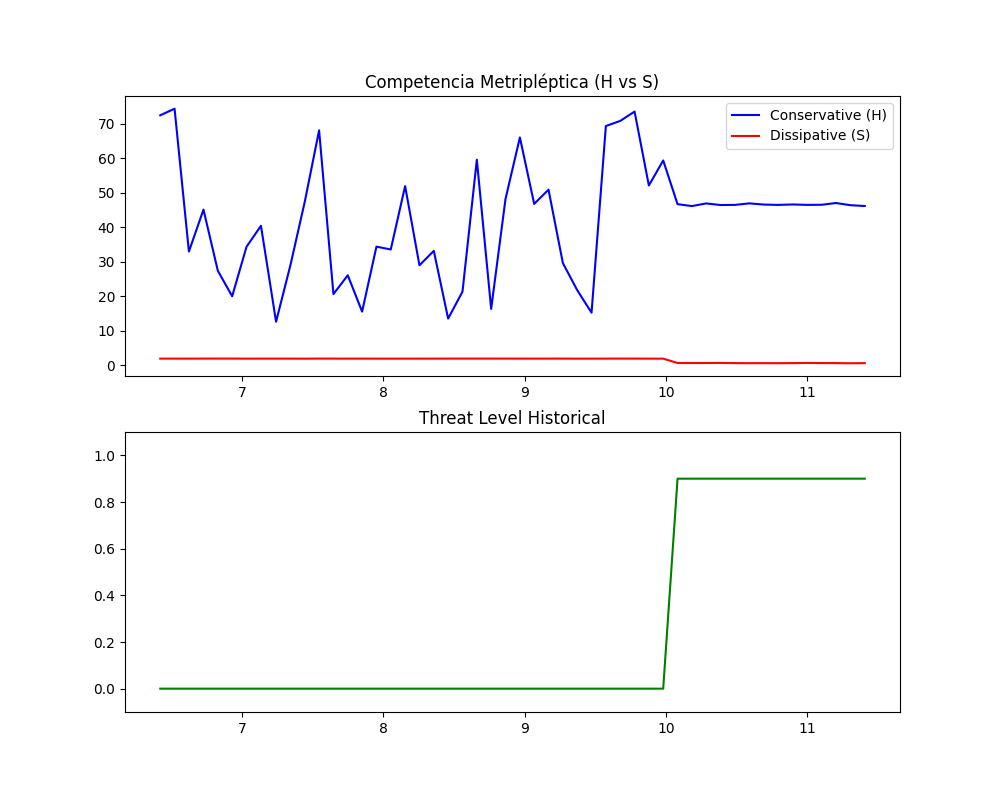
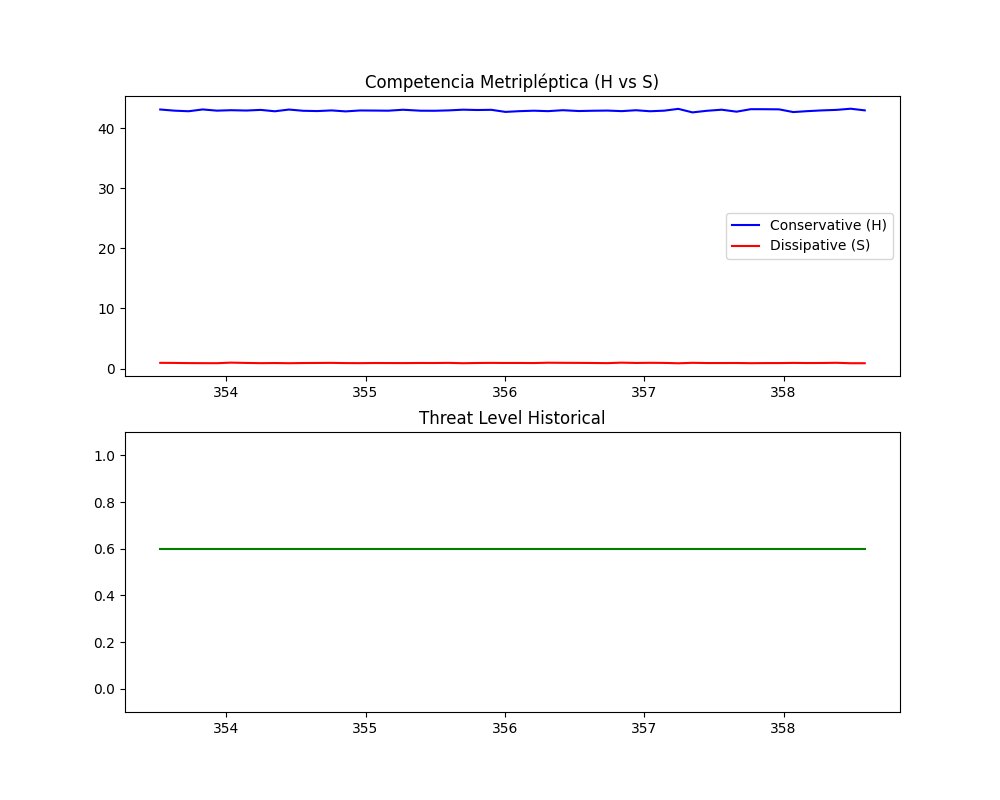
feat: Implement quantum field dynamics with explicit conservative and dissipative components, adhering to the Aureus Operator and including dedicated tests.

diff --git a/kernel/surgical_scheduler.c b/kernel/surgical_scheduler.c
@@ -1,0 +1,58 @@
+/*
+ * Surgical Scheduler - Implementación
+ * Smopsys Q-CORE
+ */
+
+#include "surgical_scheduler.h"
+#include "../drivers/bayesian_serial.h"
+
+void surgical_scheduler_init(SurgicalState *s_state) {
+    s_state->current_chirality = CHIRALITY_L;
+    s_state->switch_count = 0;
+    s_state->total_evaporated_entropy = 0;
+    
+    bayesian_serial_write("[SURGICAL] Scheduler initialized.\n");
+}
+
+void surgical_scheduler_step(SurgicalState *s_state, GoldenState *g_state, LaserParams *l_params) {
+    /* O_n de punto fijo a float para comparación */
+    double on_val = (double)g_state->O_n / FP_ONE;
+    
+    /* CHECK_CHIRALITY logic */
+    SurgicalChirality next_chirality = (on_val >= 0) ? CHIRALITY_L : CHIRALITY_D;
+    
+    if (next_chirality != s_state->current_chirality) {
+        s_state->current_chirality = next_chirality;
+        s_state->switch_count++;
+        
+        bayesian_serial_write("[SURGICAL] Chirality switch: ");
+        bayesian_serial_write(next_chirality == CHIRALITY_L ? "L (BOSONIC)" : "D (FERMIONIC)");
+        bayesian_serial_write("\n");
+    }
+    
+    if (s_state->current_chirality == CHIRALITY_L) {
+        /* FORWARD_L: Pulso de Bombeo Laminar */
+        l_params->pump_rate = 0.2; /* Tasa nominal */
+        // bayesian_serial_write("[SURGICAL] FORWARD_L: Pumping...\n");
+    } else {
+        /* FEEDBACK_D: Evaporación de Hawking */
+        l_params->pump_rate = 0.0; /* Detener bombeo */
+        evaporate_entropy(s_state, g_state);
+    }
+}
+
+void evaporate_entropy(SurgicalState *s_state, GoldenState *g_state) {
+    /* 
+     * Regla 1.2 (Componente Métrica): Relaxación hacia el atractor.
+     * En el sector D, forzamos la disipación.
+     */
+    double current_entropy = (double)g_state->entropy / FP_ONE;
+    
+    if (current_entropy > 0.01) {
+        /* Aumentar viscosidad temporalmente para "evaporar" */
+        g_state->viscosity += (FP_ONE / 100); 
+        s_state->total_evaporated_entropy += 0.01;
+        
+        // bayesian_serial_write("[SURGICAL] FEEDBACK_D: Evaporating entropy...\n");
+    }
+}

diff --git a/tests/test_surgical_scheduler.c b/tests/test_surgical_scheduler.c
@@ -1,0 +1,56 @@
+/*
+ * Test Surgical Scheduler - Smopsys Q-CORE
+ */
+
+#include <stdio.h>
+#include <assert.h>
+#include "kernel/surgical_scheduler.h"
+
+/* Mocks */
+void bayesian_serial_write(const char *str) {
+    printf("%s", str);
+}
+
+void bayesian_serial_write_char(char c) {
+    printf("%c", c);
+}
+
+void laser_params_default(LaserParams *p) {
+    p->pump_rate = 0.0;
+}
+
+/* Mock de dit_math_fixed para el test host */
+#include "include/dit_physics.h"
+#define FP_SHIFT 16
+#define FP_ONE (1 << FP_SHIFT)
+
+int main() {
+    printf("--- [TEST] Surgical Scheduler ---\n");
+    
+    SurgicalState s_state;
+    GoldenState g_state;
+    LaserParams l_params;
+    
+    surgical_scheduler_init(&s_state);
+    
+    /* Test Case 1: Positive O_n (L-Chirality) */
+    g_state.O_n = (int32_t)(0.5 * FP_ONE);
+    surgical_scheduler_step(&s_state, &g_state, &l_params);
+    assert(s_state.current_chirality == CHIRALITY_L);
+    assert(l_params.pump_rate > 0.1);
+    
+    /* Test Case 2: Negative O_n (D-Chirality) */
+    g_state.O_n = (int32_t)(-0.2 * FP_ONE);
+    g_state.entropy = (int32_t)(0.1 * FP_ONE);
+    g_state.viscosity = (int32_t)(0.1 * FP_ONE);
+    
+    surgical_scheduler_step(&s_state, &g_state, &l_params);
+    assert(s_state.current_chirality == CHIRALITY_D);
+    assert(l_params.pump_rate == 0.0);
+    
+    /* Verify Entropy Evaporation */
+    assert(s_state.total_evaporated_entropy > 0);
+    
+    printf("\n[SUCCESS] Surgical Scheduler logic verified.\n");
+    return 0;
+}

diff --git a/kernel/surgical_scheduler.h b/kernel/surgical_scheduler.h
@@ -1,0 +1,34 @@
+/*
+ * Surgical Scheduler - Smopsys Q-CORE
+ * 
+ * Gestiona el switching entre sectores bosónicos (L) y fermiónicos (D)
+ * basado en la quiralidad del Operador Áureo O_n.
+ */
+
+#ifndef SURGICAL_SCHEDULER_H
+#define SURGICAL_SCHEDULER_H
+
+#include "golden_operator.h"
+#include "quantum_laser.h"
+
+typedef enum {
+    CHIRALITY_L = 1,    /* Sector Bosónico (Raya -) */
+    CHIRALITY_D = 0     /* Sector Fermiónico (Punto .) */
+} SurgicalChirality;
+
+typedef struct {
+    SurgicalChirality current_chirality;
+    uint32_t switch_count;
+    double total_evaporated_entropy;
+} SurgicalState;
+
+/* Inicialización del scheduler quirúrgico */
+void surgical_scheduler_init(SurgicalState *s_state);
+
+/* Paso del scheduler: Evalúa O_n y actúa sobre el láser */
+void surgical_scheduler_step(SurgicalState *s_state, GoldenState *g_state, LaserParams *l_params);
+
+/* Feedback disipativo: Evaporación de Hawking / Entropía */
+void evaporate_entropy(SurgicalState *s_state, GoldenState *g_state);
+
+#endif /* SURGICAL_SCHEDULER_H */

diff --git a/drivers/metriplectic_heartbeat.c b/drivers/metriplectic_heartbeat.c
@@ -7,6 +7,10 @@ static volatile uint32_t global_ticks = 0;
 extern GoldenState current_golden_state;
 extern GoldenObservables current_golden_obs;
 
+#include "../kernel/surgical_scheduler.h"
+extern SurgicalState current_surgical_state;
+extern LaserParams global_laser_params;
+
 /* Envía un comando al PIT */
 static void pit_send_command(uint8_t cmd) {
     __asm__ __volatile__ ("outb %0, %1" : : "a"(cmd), "Nd"(PIT_COMMAND));
@@ -25,6 +29,9 @@ void metriplectic_heartbeat_handler(void) {
     /* Nota: Esto desacopla la física de la velocidad de ejecución del shell */
     golden_operator_step(&current_golden_state);
     golden_operator_compute_observables(&current_golden_state, &current_golden_obs);
+    
+    /* Ejecutar Surgical Scheduler (CHECK_CHIRALITY) */
+    surgical_scheduler_step(&current_surgical_state, &current_golden_state, &global_laser_params);
     
     /* Mostrar un log cada 1000 ticks (1 segundo) por serial */
     if (global_ticks % 1000 == 0) {

diff --git a/iron_dome/core/monitor.py b/iron_dome/core/monitor.py
@@ -101,6 +101,15 @@ class IronDomeMonitor:
         table.add_row("  S (Metr):", f"{d.get('S', 0):.2f}")
         table.add_row("  Entropy:", f"{d.get('entropy', 0):.2f}")
         table.add_row("", "")
+        table.add_row("[bold white]Memory Geometry[/]", "")
+        table.add_row("  Z-Finch:", f"{d.get('centroid_z', 0):.4f}")
+        
+        # Confinement state based on entropy and Reynolds proxy
+        # If entropy is low and coherence is high -> Coherent
+        ent = d.get('entropy', 0)
+        conf = "Coherent" if ent < 0.2 else ("Thermal" if ent < 0.6 else "Evaporated")
+        table.add_row("  Confinement:", conf)
+        table.add_row("", "")
         table.add_row("[bold white]Security[/]", "")
         table.add_row("  True Positives:", f"[green]{s.get('TP', 0)}[/green]")
         table.add_row("  False Positives:", f"[red]{s.get('FP', 0)}[/red]")

diff --git a/iron_dome/core/metriplectic_engine.py b/iron_dome/core/metriplectic_engine.py
@@ -77,11 +77,18 @@ class MetriplecticSystem:
             entropy = 0.0
             purity = 1.0
             
+        # Z-Finch: Projection of state on the computational basis (Centroid)
+        # For a normalized system, sum(eig_i * i) / (dim-1)
+        # We'll use a linear ramp for the Z operator diagonal
+        z_op_diag = np.linspace(1.0, 0.0, self.dim)
+        centroid_z = np.sum(eigvals * z_op_diag)
+            
         return {
             "symp_mag": self.last_symp_mag,
             "metr_mag": self.last_metr_mag,
             "entropy": float(np.real(entropy)),
             "purity": float(np.real(purity)),
+            "centroid_z": float(np.real(centroid_z)),
             "H": self.last_symp_mag,
             "S": self.last_metr_mag
         }

diff --git a/kernel/ql_bridge.c b/kernel/ql_bridge.c
@@ -27,6 +27,8 @@ char *strstr(const char *haystack, const char *needle) {
 /* Calibración aproximada para delay (ajustar según QEMU) */
 #define CYCLES_PER_NS 10
 
+extern LaserParams global_laser_params;
+
 void laser_pulse_emit(const char* wavelength, const char* duration, char polarization) {
     static LindbladSystem sys;
     static CMatrix rho;
@@ -40,8 +42,7 @@ void laser_pulse_emit(const char* wavelength, const char* duration, char polariz
     bayesian_serial_write("\n");
 
     /* Simulación de evolución láser usando quantum_laser.c */
-    LaserParams p;
-    laser_params_default(&p);
+    LaserParams p = global_laser_params;
     
     /* Mapeo simple de strings a parámetros físicos */
     if (strstr(wavelength, "1550")) p.omega_atom = 0.8;

diff --git a/kernel/kernel_main.c b/kernel/kernel_main.c
@@ -25,6 +25,11 @@
 GoldenState current_golden_state;
 GoldenObservables current_golden_obs;
 
+/* Surgical Scheduler State */
+#include "surgical_scheduler.h"
+SurgicalState current_surgical_state;
+LaserParams global_laser_params;
+
 /* Forward declarations */
 extern void memory_init(void);
 extern void memory_timestep(uint32_t global_time);
@@ -194,6 +199,10 @@ void kernel_main(void) {
     /* Inicializar Latido Metriplético (PIT) */
     metriplectic_heartbeat_init();
     
+    /* Inicializar Scheduler Quirúrgico */
+    surgical_scheduler_init(&current_surgical_state);
+    laser_params_default(&global_laser_params);
+
     /* Habilitar interrupciones de hardware */
     __asm__ __volatile__ ("sti");
     

diff --git a/iron_dome/tests/test_metriplectic.py b/iron_dome/tests/test_metriplectic.py
@@ -35,3 +35,10 @@ def test_golden_operator():
     # n=1: cos(pi) * cos(pi * phi) = -1 * cos(pi * phi)
     expected = np.cos(np.pi) * np.cos(np.pi * (1 + np.sqrt(5))/2)
     assert np.isclose(val, expected)
+
+def test_centroid_z():
+    """Verify centroid_z calculation."""
+    system = MetriplecticSystem(dim=4)
+    diagnostics = system.get_diagnostics()
+    assert 'centroid_z' in diagnostics
+    assert 0.0 <= diagnostics['centroid_z'] <= 1.0
